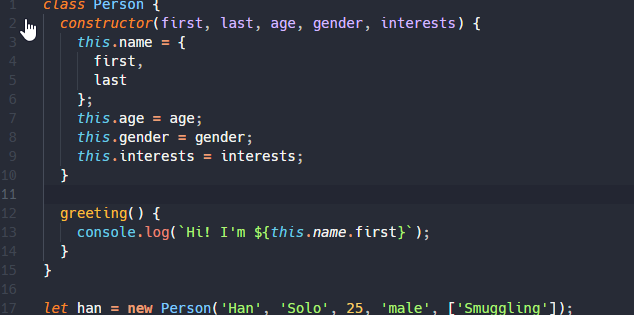
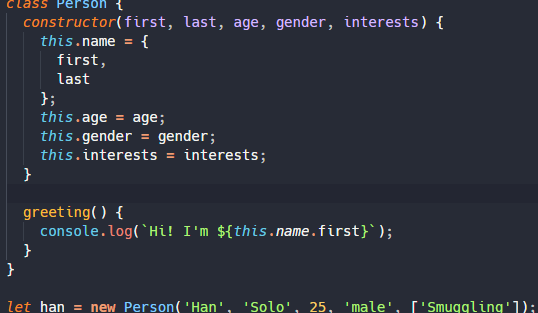
visual studio theme added

diff --git a/project-pages/dist/index.html b/project-pages/dist/index.html
@@ -1,1 +1,1 @@
-<!DOCTYPE html><html lang=en><head><meta charset=utf-8><meta http-equiv=X-UA-Compatible content="IE=edge"><meta name=viewport content="width=device-width,initial-scale=1"><link rel=icon href=./icon.svg><title>Photography by Anke Marsolin</title><link rel=stylesheet href="https://fonts.googleapis.com/css?family=Roboto:100,300,400,500,700,900"><link rel=stylesheet href="https://fonts.googleapis.com/css?family=Material+Icons"><link href=https://use.fontawesome.com/releases/v5.0.13/css/all.css rel=stylesheet><link href=./css/app.4e3eeae9.css rel=preload as=style><link href=./css/chunk-vendors.cb457a8c.css rel=preload as=style><link href=./js/app.295bf7f8.js rel=preload as=script><link href=./js/chunk-vendors.2faa2dd5.js rel=preload as=script><link href=./css/chunk-vendors.cb457a8c.css rel=stylesheet><link href=./css/app.4e3eeae9.css rel=stylesheet></head><body><noscript><strong>We're sorry but fotostudio-page doesn't work properly without JavaScript enabled. Please enable it to continue.</strong></noscript><div id=app></div><script src=./js/chunk-vendors.2faa2dd5.js></script><script src=./js/app.295bf7f8.js></script></body></html>
+<!DOCTYPE html><html lang=en><head><meta charset=utf-8><meta http-equiv=X-UA-Compatible content="IE=edge"><meta name=viewport content="width=device-width,initial-scale=1"><link rel=icon href=./icon.svg><title>Photography by Anke Marsolin</title><link rel=stylesheet href="https://fonts.googleapis.com/css?family=Roboto:100,300,400,500,700,900"><link rel=stylesheet href="https://fonts.googleapis.com/css?family=Material+Icons"><link href=https://use.fontawesome.com/releases/v5.0.13/css/all.css rel=stylesheet><link href=./css/app.4e3eeae9.css rel=preload as=style><link href=./css/chunk-vendors.cb457a8c.css rel=preload as=style><link href=./js/app.295bf7f8.js rel=preload as=script><link href=./js/chunk-vendors.2faa2dd5.js rel=preload as=script><link href=./css/chunk-vendors.cb457a8c.css rel=stylesheet><link href=./css/app.4e3eeae9.css rel=stylesheet></head><body style="overflow: hidden;"><noscript><strong>We're sorry but fotostudio-page doesn't work properly without JavaScript enabled. Please enable it to continue.</strong></noscript><div id=app></div><script src=./js/chunk-vendors.2faa2dd5.js></script><script src=./js/app.295bf7f8.js></script></body></html>

diff --git a/index.html b/index.html
@@ -101,11 +101,7 @@
             >Photographer Webdesign</a
           >
         </h3>
-        <iframe
-          src="./project-pages/dist/index.html"
-          frameborder="0"
-          scrolling="no"
-        ></iframe>
+        <iframe src="./project-pages/dist/index.html" frameborder="0"></iframe>
       </div>
 
       <div class="section-card" id="second-card">
@@ -135,16 +131,19 @@
         ></iframe>
       </div> -->
 
-      <!-- <div class="section-card" id="third-card">
+      <div class="section-card" id="third-card">
         <h3 class="card-header">
           <a
             href="https://marketplace.visualstudio.com/items?itemName=geisslerh.ayu-mirage-bold-italic"
             target="_blank"
-            >Visual Studio Code Theme</a
+            >Ayu Mirage PowerUp</a
           >
-          <img src="img/vs_theme.png" alt="" srcset="" />
         </h3>
-      </div> -->
+        <figure>
+          <img src="img/vs_theme.png" alt="" srcset="" />
+          <figcaption>Visual Studio Code Theme</figcaption>
+        </figure>
+      </div>
     </div>
 
     <div id="footer">

diff --git a/style.css b/style.css
@@ -361,7 +361,7 @@ a:hover:before {
   margin: 0 auto;
   display: flex;
   flex-wrap: wrap;
-  align-items: center;
+  align-items: flex-start;
   justify-content: space-evenly;
 }
 
@@ -410,16 +410,22 @@ a:hover:before {
 }
 
 #first-card {
-  width: 360px;
+  width: 390px;
   height: 800px;
 }
 #second-card {
-  width: 360px;
+  width: 390px;
   height: 800px;
 }
 #third-card {
   width: 640px;
-  height: 210px;
+}
+
+#third-card img {
+  height: 313px;
+  width: 538px;
+  margin: 16px auto;
+  border: 1px solid #173e4d;
 }
 
 /* @media (max-width: 650px) {
@@ -443,10 +449,8 @@ iframe {
   margin: 0 10px 10px;
   padding: 0;
   box-shadow: 0 4px 8px 0 rgba(0, 0, 0, 0.2), 0 6px 20px 0 rgba(0, 0, 0, 0.19);
-}
-
-iframe::-webkit-scrollbar {
-  display: none;
+  overflow: hidden;
+  border: 1px solid #173e4d;
 }
 
 body:last-of-type {
